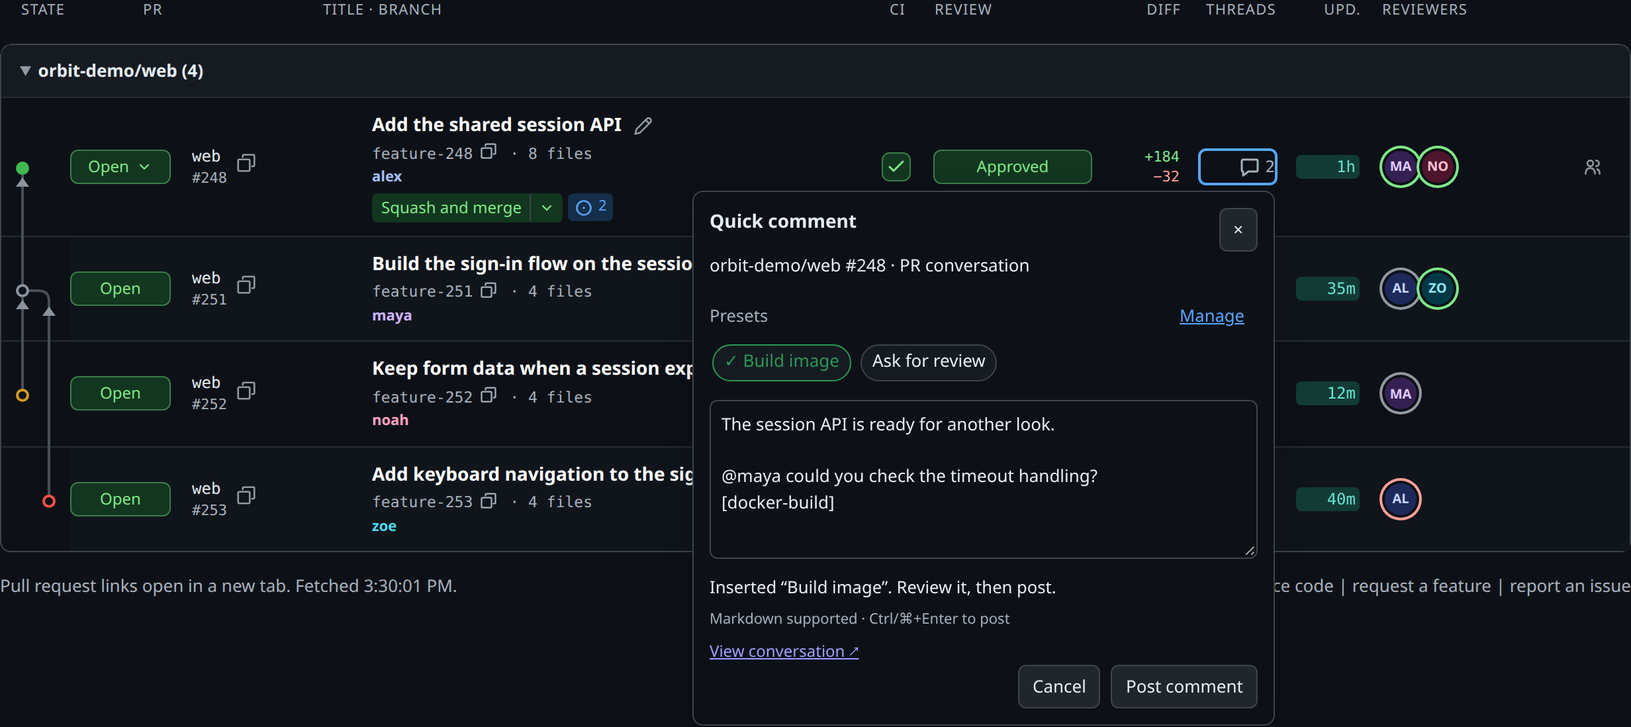
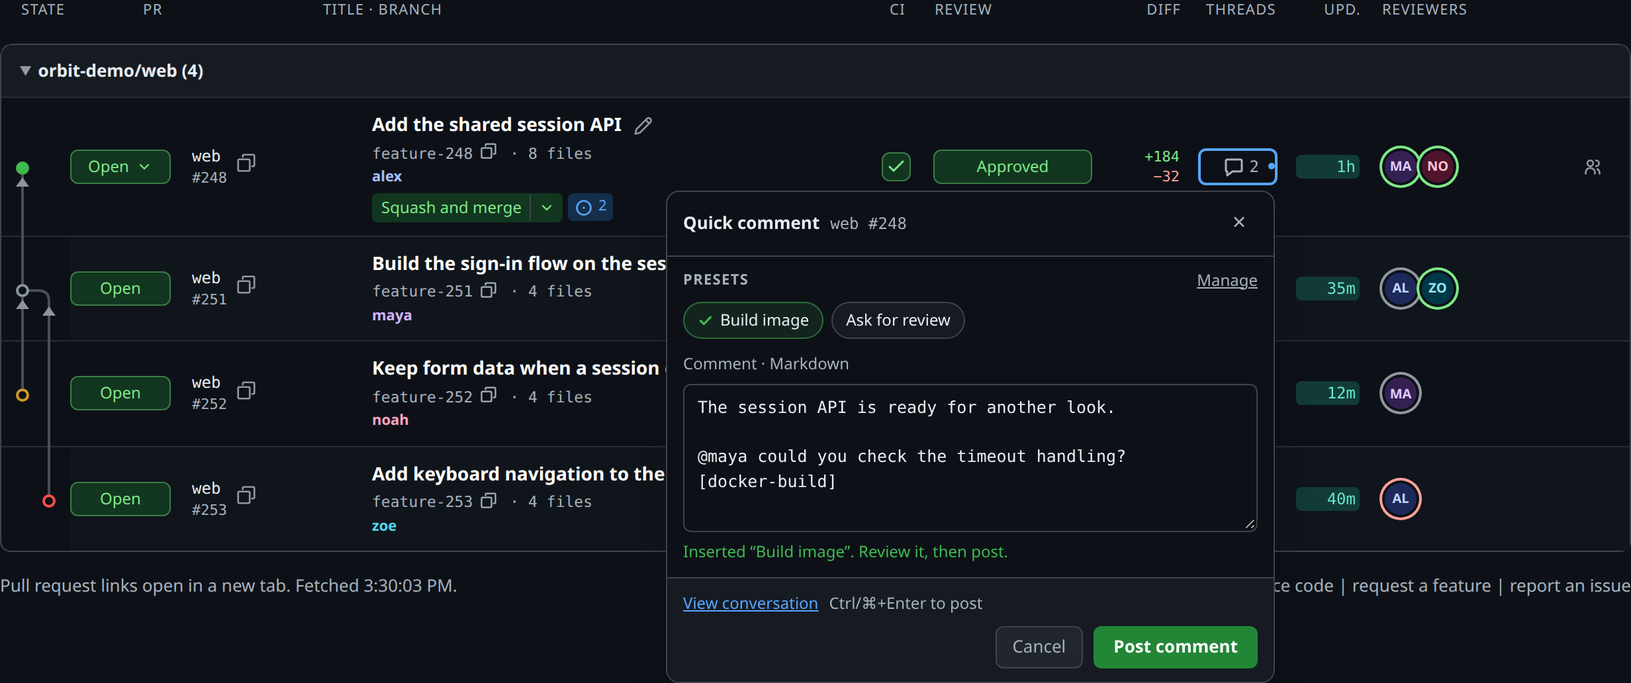
Match preset editor and composer to the design handoff

diff --git a/public/quick-presets.js b/public/quick-presets.js
@@ -10,25 +10,34 @@ async function request(input) {
   account = data.account; presets = data.presets;
 }
 export async function loadPresets() { try { await request(); } catch (e) { status=e.message; retry=loadPresets; } draw(); }
-export function openSettings(create=false) { const d=$('settings-dialog'); if (!d.open) d.showModal(); if(create) edit(); else draw(); }
+export function openSettings(create=false) { location.assign('/settings.html' + location.search + (create?'#new':'')); }
 function reset(){ editor=null; deleting=null; errors={}; retry=null; undo=null; status=''; }
 function edit(p){ reset(); editor={...p,label:p?.label??'',body:p?.body??'', scoped:p?.repos!==undefined||p?.orgs!==undefined,repos:[...(p?.repos??[])],orgs:[...(p?.orgs??[])],pending:{repos:'',orgs:''}};draw();focus('pf-label'); }
 function cancel(){const id=editor?.id, del=deleting;reset();draw();focus(del?'del-'+del:id?'edit-'+id:'new-preset');}
-async function change(input,done){if(busy)return;busy=true;retry=null;status='Saving…';draw();try{await request(input);busy=false;reset();done();}catch(e){busy=false;status=input.action==='save'?`Couldn’t save “${input.label}”. Your changes are still in the form. ${e.message}`:e.message;retry=()=>change(input,done);draw();}}
+async function change(input,done){if(busy)return;busy=true;retry=null;status='Saving…';draw();try{await request(input);busy=false;reset();done();}catch(e){busy=false;status=input.action==='save'?`Couldn’t save “${input.label}”. Your changes are still in the form. ${e.message}`:e.message;retry=input.action==='save'?()=>submit():()=>change(input,done);draw();}}
 function token(k){const v=editor.pending[k].trim();if(!v)return true;const ok=k==='repos'?repoPattern:orgPattern;
-  if(!ok.test(v)) errors[k]=k==='repos'?'Use owner/name, like nyxlabs/nyx.':'Use an org or user name, like nyxlabs.';
+  if(!ok.test(v)) errors[k]=k==='repos'?'Use owner/name, like nyxlabs/nyx.':v.includes('/')?'Enter just the org or user, like nyxlabs. For one repo, add it under Repositories.':'Use an org or user name, like nyxlabs.';
   else if(editor[k].some(x=>x.toLowerCase()===v.toLowerCase()))errors[k]=`${v} is already added.`;
   else{editor[k].push(v);editor.pending[k]='';delete errors[k];delete errors.scope;}draw();focus('pf-'+k);return !errors[k];}
-function submit(e){e.preventDefault();const {id,label,body,scoped}=editor;errors={};if(scoped){for(const k of ['repos','orgs'])token(k);}const p={id,label,body,...(scoped?{repos:editor.repos,orgs:editor.orgs}:{})};errors={...presetErrors(p,presets),...errors};if(Object.keys(errors).length){draw();focus('pf-'+(['label','body','repos','orgs','scope'].find(k=>errors[k])));return;}void change({action:'save',...p},()=>{status=`${id?'Saved':'Added'} “${label.trim()}”.`;draw();focus('edit-'+presets.find(x=>x.label===label.trim()).id);});}
+function submit(e){e?.preventDefault();const {id,label,body,scoped}=editor;errors={};if(scoped){for(const k of ['repos','orgs'])token(k);}const p={id,label,body,...(scoped?{repos:editor.repos,orgs:editor.orgs}:{})};errors={...presetErrors(p,presets),...errors};if(Object.keys(errors).length){draw();focus('pf-'+(['label','body','repos','orgs','scope'].find(k=>errors[k])));return;}void change({action:'save',...p},()=>{status=`${id?'Saved':'Added'} “${label.trim()}”.`;draw();focus('edit-'+presets.find(x=>x.label===label.trim()).id);});}
 function move(p,delta){void change({action:'move',id:p.id,delta},()=>{status=`Moved “${p.label}” to position ${presets.findIndex(x=>x.id===p.id)+1} of ${presets.length}.`;draw();focus('edit-'+p.id);});}
 function remove(p,i){void change({action:'delete',id:p.id},()=>{status=`Deleted “${p.label}”.`;undo=()=>change({action:'restore',...p,position:i},()=>{status=`Restored “${p.label}”.`;draw();focus('edit-'+p.id);});draw();focus('undo-preset');});}
-function preview(p){if(!p.scoped)return 'Shows on every pull request.';const parts=[p.repos.length&&'PRs in '+p.repos.join(' or '),p.orgs.length&&'any repo owned by '+p.orgs.join(' or ')].filter(Boolean);return parts.length?'Shows on '+parts.join(', or in ')+'.':'No repositories selected.';}
-function msg(k){return html`<small class="preset-error" id=${'msg-'+k}>${errors[k]??''}</small>`;}
+function preview(p){
+  if(!p.scoped)return 'Shows on every pull request.';
+  const orList=a=>a.length<3?a.join(' or '):a.slice(0,-1).join(', ')+', or '+a.at(-1);
+  const parts=[p.repos.length&&orList(p.repos),p.orgs.length&&'any repo owned by '+orList(p.orgs)].filter(Boolean);
+  return parts.length?'Shows on PRs in '+parts.join(', or in ')+'.':'Matches no pull requests yet. Add a repository or an org.';
+}
+function msg(k,help=''){return html`<small class=${errors[k]?'preset-error':'preset-help'} id=${'msg-'+k}>${errors[k]??help}</small>`;}
+function icon(path){return html`<svg width="14" height="14" viewBox="0 0 16 16" fill="none" stroke="currentColor" stroke-width="1.6" stroke-linecap="round" stroke-linejoin="round" aria-hidden="true"><path d=${path}></path></svg>`;}
 function tokens(k){return html`<label for=${'pf-'+k}>${k==='repos'?'Repositories':'Organizations or users'}</label><div class="preset-tokens">${editor[k].map(v=>html`<button type="button" aria-label=${'Remove '+v} @click=${()=>{editor[k]=editor[k].filter(x=>x!==v);draw();focus('pf-'+k);}}>${v} ×</button>`)}<input id=${'pf-'+k} aria-invalid=${!!errors[k]} aria-describedby=${'msg-'+k} placeholder=${k==='repos'?'owner/name':'org or user'} .value=${editor.pending[k]} @input=${e=>{editor.pending[k]=e.target.value;delete errors[k];draw();}} @keydown=${e=>{if(e.key==='Enter'){e.preventDefault();token(k);}}}><button type="button" @click=${()=>token(k)}>Add</button></div>${msg(k)}`;}
-function form(){return html`<form class="preset-form" novalidate @submit=${submit}><fieldset ?disabled=${busy}><legend>${editor.id?'Edit':'New'} preset</legend><label for="pf-label">Label</label><input id="pf-label" maxlength="40" placeholder="Build image" aria-invalid=${!!errors.label} aria-describedby="msg-label" .value=${editor.label} @input=${e=>{editor.label=e.target.value;delete errors.label;draw();}}>${msg('label')}<label for="pf-body">Comment body</label><textarea id="pf-body" maxlength="4000" placeholder="[docker-build]" aria-invalid=${!!errors.body} aria-describedby="msg-body" .value=${editor.body} @input=${e=>{editor.body=e.target.value;delete errors.body;draw();}}></textarea>${msg('body')}<fieldset><legend>Show on</legend>${[false,true].map(s=>html`<label><input type="radio" name="scope" .checked=${s===editor.scoped} @change=${()=>{editor.scoped=s;errors={};draw();if(s)focus('pf-repos');}}> ${s?'Only these repositories or organizations':'Every repository'}</label>`)}</fieldset>${editor.scoped?html`${tokens('repos')}${tokens('orgs')}`:nothing}<p id="pf-scope" tabindex="-1">${preview(editor)}</p>${msg('scope')}<div class="preset-actions"><button type="button" @click=${cancel}>Cancel</button><button class="primary" type="submit">${busy?'Saving…':'Save preset'}</button></div></fieldset></form>`;}
+function form(){return html`<form class="preset-form" novalidate @submit=${submit}><fieldset ?disabled=${busy}><legend>${editor.id?'Edit':'New'} preset</legend><div class="preset-fields"><div><label for="pf-label">Label</label><input id="pf-label" maxlength="40" placeholder="Build image" aria-invalid=${!!errors.label} aria-describedby="msg-label" .value=${editor.label} @input=${e=>{editor.label=e.target.value;delete errors.label;draw();}}>${msg('label','Shown on the chip. Up to 40 characters.')}</div><div><label for="pf-body">Comment text</label><textarea id="pf-body" maxlength="4000" placeholder="[docker-build]" aria-invalid=${!!errors.body} aria-describedby="msg-body" .value=${editor.body} @input=${e=>{editor.body=e.target.value;delete errors.body;draw();}}></textarea>${msg('body','Inserted exactly as written. Markdown works.')}</div></div><fieldset><legend>Show on</legend>${[false,true].map(s=>html`<label><input type="radio" name="scope" .checked=${s===editor.scoped} @change=${()=>{editor.scoped=s;errors={};draw();if(s)focus('pf-repos');}}> ${s?'Only these repositories or organizations':'Every repository'}</label>`)}</fieldset>${editor.scoped?html`${tokens('repos')}${tokens('orgs')}`:nothing}<p id="pf-scope" tabindex="-1">${preview(editor)}</p>${msg('scope')}<div class="preset-actions"><small class="preset-hint-key">Enter adds a repo or org · Esc cancels</small><button type="button" @click=${cancel}>Cancel</button><button class="primary" type="submit">${busy?'Saving…':editor.id?'Save changes':'Add preset'}</button></div></fieldset></form>`;}
 function row(p,i){if(editor?.id===p.id)return form();if(deleting===p.id)return html`<strong>Delete “${p.label}”?</strong><p>This removes the preset, not any posted comments.</p><button @click=${cancel}>Cancel</button> <button class="preset-error" id="confirm-preset" @click=${()=>remove(p,i)}>Delete preset</button>`;
   const tags=[...(p.repos??[]),...(p.orgs??[]).map(o=>'org '+o)];if(!tags.length)tags.push(p.repos||p.orgs?'No repositories':'All repositories');
-  return html`<div class="preset-item"><span class="preset-number">${i+1}</span><div><strong>${p.label}</strong><code>${p.body}</code><small>Shows on ${tags.slice(0,3).map(t=>html`<span class="scope-badge">${t}</span>`)} ${tags.length>3?html`<span title=${tags.slice(3).join(', ')}>+${tags.length-3} more</span>`:nothing}</small></div><div class="preset-actions"><button aria-label=${'Move '+p.label+' up'} ?disabled=${busy||!i} @click=${()=>move(p,-1)}>↑</button><button aria-label=${'Move '+p.label+' down'} ?disabled=${busy||i===presets.length-1} @click=${()=>move(p,1)}>↓</button><button id=${'edit-'+p.id} ?disabled=${busy} @click=${()=>edit(p)}>Edit</button><button id=${'del-'+p.id} ?disabled=${busy} @click=${()=>{reset();deleting=p.id;draw();focus('confirm-preset');}}>Delete</button></div></div>`;}
-function draw(){render(html`<div class="preset-heading"><div><h2>Quick comment presets</h2><p>Save comments you post often. Presets appear in this order on matching pull requests.</p></div>${presets.length?html`<button class="primary" id="new-preset" ?disabled=${busy} @click=${()=>edit()}>+ Add preset</button>`:nothing}</div><div class="preset-status" role="status">${status} ${retry?html`<button @click=${retry}>Retry</button>`:undo?html`<button id="undo-preset" @click=${undo}>Undo</button>`:nothing}</div>${editor&&!editor.id?form():nothing}${!presets.length&&!editor?html`<div class="preset-empty"><strong>No presets yet</strong><p>Save comments you post often, like [docker-build] or @claude_review.</p><button class="primary" id="new-preset" @click=${()=>edit()}>Create your first preset</button></div>`:nothing}<ol class="preset-list">${repeat(presets,p=>p.id,(p,i)=>html`<li>${row(p,i)}</li>`)}</ol><small>Saved to your local config for this GitHub account.</small>`,$('quick-comment-editor'));}
-$('settings-dialog').addEventListener('cancel',e=>{if(busy||editor||deleting){e.preventDefault();if(!busy)cancel();}});
-$('settings-dialog').addEventListener('close',reset);
+  return html`<div class="preset-item"><span class="preset-number">${i+1}</span><div><div class="preset-summary"><strong>${p.label}</strong><code>${p.body}</code></div><small>Shows on ${tags.slice(0,3).map(t=>html`<span class="scope-badge" data-repo=${t.includes('/')}>${t}</span>`)} ${tags.length>3?html`<span title=${tags.slice(3).join(', ')}>+${tags.length-3} more</span>`:nothing}</small></div><div class="preset-actions"><button aria-label=${'Move '+p.label+' up'} ?disabled=${busy||!i} @click=${()=>move(p,-1)}>${icon('m3 10 5-5 5 5')}</button><button aria-label=${'Move '+p.label+' down'} ?disabled=${busy||i===presets.length-1} @click=${()=>move(p,1)}>${icon('m3 6 5 5 5-5')}</button><button id=${'edit-'+p.id} ?disabled=${busy} @click=${()=>edit(p)}>Edit</button><button id=${'del-'+p.id} ?disabled=${busy} @click=${()=>{reset();deleting=p.id;draw();focus('confirm-preset');}}>Delete</button></div></div>`;}
+function draw(){if (!$('quick-comment-editor')) return; render(html`<div class="preset-heading"><div><h1>Quick comment presets</h1><p>One click fills the Quick comment draft with text you post often. Nothing is posted until you press Post comment. Presets show in this order, and only on PRs inside their scope.</p></div>${presets.length?html`<button class="primary" id="new-preset" ?disabled=${busy} @click=${()=>edit()}>${icon('M8 2v12M2 8h12')} Add preset</button>`:nothing}</div><div class="preset-status" role="status">${status || (presets.length ? `${presets.length} preset${presets.length===1?'':'s'}. Changes save automatically.`:'')} ${retry?html`<button @click=${retry}>Retry</button>`:undo?html`<button id="undo-preset" @click=${undo}>Undo</button>`:nothing}</div>${editor&&!editor.id?form():nothing}${!presets.length&&!editor?html`<div class="preset-empty"><strong>No presets yet</strong><p>Save comments you post often, like [docker-build] or @claude_review.</p><button class="primary" id="new-preset" @click=${()=>edit()}>Create your first preset</button></div>`:nothing}<ol class="preset-list">${repeat(presets,p=>p.id,(p,i)=>html`<li>${row(p,i)}</li>`)}</ol>`,$('quick-comment-editor'));}
+if ($('quick-comment-editor')) {
+  $('dashboard-link').href = '/' + location.search;
+  document.addEventListener('keydown', e=>{if(e.key==='Escape'&&!busy&&(editor||deleting)){e.preventDefault();cancel();}});
+  void loadPresets().then(()=>{if(location.hash==='#new')edit();});
+}

diff --git a/public/presets.css b/public/presets.css
@@ -1,1 +1,7 @@
-#settings-dialog{color:var(--color-text);background:var(--color-page);border:1px solid var(--color-border);border-radius:10px;width:min(780px,calc(100% - 24px));max-height:90dvh;padding:0;overscroll-behavior:contain}#settings-dialog::backdrop{background:#0008;overflow:hidden;overscroll-behavior:contain}.preset-top,.preset-heading,.preset-caption,.preset-actions{display:flex;align-items:center;justify-content:space-between;gap:8px}.preset-top{padding:12px 18px;border-bottom:1px solid var(--color-border);background:var(--color-surface)}#quick-comment-editor{padding:18px}#quick-comment-editor h2{margin:0;font-size:1.05rem}#quick-comment-editor p{margin:4px 0 12px;color:var(--color-muted)}.preset-heading button,.preset-actions button{white-space:nowrap}.preset-list{list-style:none;padding:0;margin:10px 0;border:1px solid var(--color-border);border-radius:8px;overflow:hidden}.preset-list:empty{display:none}.preset-list li{padding:12px}.preset-list li+li{border-top:1px solid var(--color-divider)}.preset-item{display:grid;grid-template-columns:1.5rem minmax(0,1fr) auto;align-items:start;gap:8px}.preset-item code{display:block;white-space:pre-wrap;overflow-wrap:anywhere;color:var(--color-muted)}.preset-item small,.preset-number{color:var(--color-muted)}.preset-actions{justify-content:flex-end;flex-wrap:wrap}.scope-badge,.preset-tokens button,.preset-chips button{display:inline-flex;border:1px solid var(--color-border);border-radius:999px;padding:2px 8px;margin:2px;background:var(--color-surface)}.preset-form{padding:12px;border:1px solid var(--color-border);border-radius:8px;background:var(--color-surface)}.preset-form>fieldset{border:0;min-width:0;padding:0}.preset-form label,.preset-form textarea,.preset-form input:not([type=radio]){display:block}.preset-form label{margin-top:8px;font-weight:600}.preset-form input:not([type=radio]),.preset-form textarea,.preset-filter{box-sizing:border-box;width:100%;padding:7px;background:var(--color-page);color:var(--color-text);border:1px solid var(--color-border);border-radius:6px;font:inherit}.preset-form textarea{min-height:70px}.preset-form fieldset fieldset{margin:8px 0;border:1px solid var(--color-divider)}.preset-tokens,.preset-chips{display:flex;flex-wrap:wrap;align-items:center;gap:3px}.preset-tokens input{flex:1;min-width:8em}.preset-error,[aria-invalid=true]{color:var(--color-danger,#cf4545)}.preset-note,.preset-status{min-height:1.3em;font-size:.8rem}.preset-empty,.preset-hint{padding:10px;border:1px dashed var(--color-border);border-radius:8px}.preset-empty{text-align:center;padding:28px}.preset-picker{margin:12px 0}.preset-caption{color:var(--color-muted);font-size:.8rem;margin-bottom:4px}.preset-caption button,.preset-hint button{background:transparent;border:0;color:var(--color-accent);text-decoration:underline}.preset-chips button{min-height:28px}.preset-chips .in-draft{color:var(--color-success,#299854);border-color:currentColor}.preset-close{float:right}.preset-overflow{padding:8px;margin-top:6px;border:1px solid var(--color-border);border-radius:6px;max-height:12rem;overflow:auto}.preset-overflow button{display:block;width:100%;text-align:left}.comment-count[aria-expanded=true]{outline:2px solid var(--color-accent)}.comment-popover{max-height:90dvh;overflow:auto;width:min(440px,calc(100vw - 16px))}@media(max-width:37.5em){.preset-item{grid-template-columns:1.5rem minmax(0,1fr)}.preset-item .preset-actions{grid-column:2;justify-content:start}.pr-row button.comment-count{min-height:32px}.pr-row button.comment-count:after{content:'Comment'}.comment-popover{width:calc(100vw - 16px)}.preset-heading{align-items:start}.preset-heading p{font-size:.85rem}}
+.comment-popover:popover-open{padding:0;box-sizing:border-box;width:min(460px,calc(100vw - 16px));border-radius:10px;background:var(--color-page)}
+.qc-header,.qc-footer{display:flex;align-items:center;gap:8px;padding:10px 12px}
+.qc-header{border-bottom:1px solid var(--color-border)}.qc-header h2{margin:0;font-size:13px}.qc-header span{font:12px ui-monospace,monospace;color:var(--color-muted);overflow:hidden;white-space:nowrap;text-overflow:ellipsis}.qc-header .preset-close{margin-left:auto;background:transparent;color:var(--color-muted);border:0;width:28px;height:28px;padding:0;font-size:18px}
+.comment-popover .preset-picker{padding:10px 12px 0;margin:0}.comment-popover .preset-caption{font-size:11px;text-transform:uppercase;font-weight:600;letter-spacing:.06em;margin-bottom:8px}.comment-popover .preset-caption button{min-height:0;padding:0;color:var(--color-muted);font-size:12px}.comment-popover .preset-chips{gap:6px}.comment-popover .preset-chips button{align-items:center;justify-content:center;margin:0;padding:0 10px;font-size:12px;font-weight:500}.comment-popover .preset-more{border-style:dashed;background:transparent}
+.qc-compose{padding:10px 12px;color:var(--color-muted);font-size:12px}.qc-compose textarea.form-input{margin:6px 0;min-height:96px;padding:8px 10px;font:12.5px/1.5 ui-monospace,monospace}.qc-footer{border-top:1px solid var(--color-border);background:var(--color-surface);flex-wrap:wrap;font-size:12px;color:var(--color-muted)}.qc-footer .form-actions{margin-left:auto}.qc-footer button{min-height:32px;font-size:13px}.qc-footer button[type=submit]{background:#238636;color:white;border-color:transparent}.qc-footer button[type=submit]:disabled{opacity:.55}
+.comment-popover .preset-chips button:not(.preset-more){background:var(--color-surface);color:var(--color-text);gap:5px;font-weight:500;white-space:nowrap}.comment-popover .preset-chips button.in-draft{background:light-dark(#dafbe1,rgba(63,185,80,.12));border-color:light-dark(#398747,rgba(63,185,80,.5))}.comment-popover .preset-chips .in-draft svg,.preset-note[data-inserted=true]{color:light-dark(#116329,#3fb950)}.comment-popover .preset-caption button{font-weight:400;letter-spacing:normal;text-transform:none;line-height:16px}.comment-popover .preset-caption{line-height:16px}.comment-popover .qc-footer a:any-link{color:var(--color-accent)}.qc-compose .preset-note{min-height:18px;font-size:12px;line-height:18px}.qc-footer .form-actions{flex-basis:100%;justify-content:flex-end}.qc-footer button{padding:0 12px;font-weight:500}.qc-footer button[type=submit]{padding:0 14px;font-weight:600}
+.settings-page .preset-top strong{font-size:20px}.settings-page .preset-top span,.preset-help,.preset-hint-key{color:var(--color-muted)}.settings-page .preset-top span{margin-inline-start:8px;font-size:13px}.settings-page .button-link,.settings-page button{display:inline-flex;align-items:center;justify-content:center;gap:6px}.preset-summary{display:flex;align-items:center;flex-wrap:wrap;gap:8px}.preset-summary code{background:var(--color-surface);border:1px solid var(--color-border);border-radius:5px;padding:1px 6px}.scope-badge[data-repo=true]{font-family:ui-monospace,monospace}.settings-page button[id^=del-],.settings-page #confirm-preset{color:light-dark(#b62324,#ff7b72);border-color:light-dark(#d18282,#884645)}.settings-page button:disabled{opacity:.45}.settings-page button.primary{background:#238636;color:white;border:1px solid #287e35}.preset-fields{display:grid;grid-template-columns:minmax(0,1fr) minmax(0,2fr);gap:16px}.preset-fields small{display:block;margin-top:4px}.preset-hint-key{margin-right:auto}.settings-page #pf-scope{border:1px solid var(--color-border);border-radius:6px;padding:10px;margin:12px 0;background:var(--color-page)}@media(max-width:37.5em){.preset-fields{grid-template-columns:1fr}}body.settings-page{box-sizing:border-box;width:100%;max-width:1280px;margin:auto;padding:20px}.settings-frame{width:100%;box-sizing:border-box;padding:24px 28px 32px;border:1px solid var(--color-border);border-radius:12px;background:var(--color-page)}.settings-frame .preset-top{border:0}.settings-page .preset-heading{align-items:flex-end;flex-wrap:wrap}.settings-page .preset-heading>div{max-width:640px}.settings-page .preset-heading p{font-size:13px;line-height:1.5;margin:4px 0 0}.settings-page #new-preset:not(:only-child){color:var(--color-text);background:var(--color-surface);border:1px solid var(--color-border)}.settings-page .preset-status{margin:14px 0;color:var(--color-muted)}@media(max-width:37.5em){.settings-frame{padding:16px 12px 24px}}.settings-page .preset-top{background:transparent;padding:0;margin:0}.settings-page #quick-comment-editor{padding:20px 0 0;margin:0}.settings-frame .preset-heading p{margin:4px 0 0!important}.settings-frame .preset-list{margin:0}.settings-frame .preset-item{align-items:center;gap:12px;grid-template-columns:24px minmax(0,1fr) auto}.settings-frame .preset-number{text-align:right}.settings-frame .preset-list li{padding:11px 16px}.settings-frame .preset-summary code,.settings-frame .scope-badge{font-size:12px;line-height:16px}.settings-frame .scope-badge{padding-block:0}.settings-frame .preset-summary code{padding-block:0}.settings-frame .preset-actions button{min-height:32px;font-size:13px}.settings-frame button[aria-label^=Move]{width:32px;padding:0} @media(max-width:37.5em){.settings-frame .preset-item{grid-template-columns:24px minmax(0,1fr)}}.settings-page .preset-heading h1{margin:0;font-size:16px}@media(max-width:37.5em){body.settings-page{padding:16px 12px 24px}}.preset-top,.preset-heading,.preset-caption,.preset-actions{display:flex;align-items:center;justify-content:space-between;gap:8px}.preset-top{padding:12px 18px;border-bottom:1px solid var(--color-border);background:var(--color-surface)}#quick-comment-editor{padding:18px}#quick-comment-editor h2{margin:0;font-size:1.05rem}#quick-comment-editor p{margin:4px 0 12px;color:var(--color-muted)}.preset-heading button,.preset-actions button{white-space:nowrap}.preset-list{list-style:none;padding:0;margin:10px 0;border:1px solid var(--color-border);border-radius:8px;overflow:hidden}.preset-list:empty{display:none}.preset-list li{padding:12px}.preset-list li+li{border-top:1px solid var(--color-divider)}.preset-item{display:grid;grid-template-columns:1.5rem minmax(0,1fr) auto;align-items:start;gap:8px}.preset-item code{display:block;white-space:pre-wrap;overflow-wrap:anywhere;color:var(--color-muted)}.preset-item small,.preset-number{color:var(--color-muted)}.preset-actions{justify-content:flex-end;flex-wrap:wrap}.scope-badge,.preset-tokens button,.preset-chips button{display:inline-flex;border:1px solid var(--color-border);border-radius:999px;padding:2px 8px;margin:2px;background:var(--color-surface)}.preset-form{padding:12px;border:1px solid var(--color-border);border-radius:8px;background:var(--color-surface)}.preset-form>fieldset{border:0;min-width:0;padding:0}.preset-form label,.preset-form textarea,.preset-form input:not([type=radio]){display:block}.preset-form label{margin-top:8px;font-weight:600}.preset-form input:not([type=radio]),.preset-form textarea,.preset-filter{box-sizing:border-box;width:100%;padding:7px;background:var(--color-page);color:var(--color-text);border:1px solid var(--color-border);border-radius:6px;font:inherit}.preset-form textarea{min-height:70px}.preset-form fieldset fieldset{margin:8px 0;border:1px solid var(--color-divider)}.preset-tokens,.preset-chips{display:flex;flex-wrap:wrap;align-items:center;gap:3px}.preset-tokens input{flex:1;min-width:8em}.preset-error,[aria-invalid=true]{color:var(--color-danger,#cf4545)}.preset-note,.preset-status{min-height:1.3em;font-size:.8rem}.preset-empty,.preset-hint{padding:10px;border:1px dashed var(--color-border);border-radius:8px}.preset-empty{text-align:center;padding:28px}.preset-picker{margin:12px 0}.preset-caption{color:var(--color-muted);font-size:.8rem;margin-bottom:4px}.preset-caption button,.preset-hint button{background:transparent;border:0;color:var(--color-accent);text-decoration:underline}.preset-chips button{min-height:28px}.preset-chips .in-draft{color:var(--color-success,#299854);border-color:currentColor}.preset-close{float:right}.preset-overflow{padding:8px;margin-top:6px;border:1px solid var(--color-border);border-radius:6px;max-height:12rem;overflow:auto}.preset-overflow button{display:block;width:100%;text-align:left}.comment-count[aria-expanded=true]{outline:2px solid var(--color-accent)}.comment-popover{max-height:90dvh;overflow:auto;width:min(440px,calc(100vw - 16px))}@media(max-width:37.5em){.preset-item{grid-template-columns:1.5rem minmax(0,1fr)}.preset-item .preset-actions{grid-column:2;justify-content:start}.pr-row button.comment-count{min-height:32px}.pr-row button.comment-count:after{content:'Comment'}.comment-popover{width:calc(100vw - 16px)}.preset-heading{align-items:start}.preset-heading p{font-size:.85rem}}

diff --git a/public/comments.js b/public/comments.js
@@ -33,18 +33,18 @@ export function createCommentControls({ changes, submit, onClose }) {
       if(event.key==='Escape' && more){event.preventDefault();event.stopPropagation();toggle();return;}
       if ((event.ctrlKey || event.metaKey) && event.key === 'Enter') { event.preventDefault(); event.currentTarget.requestSubmit(); }
     }}>
-      <button type="button" class="preset-close" aria-label="Close quick comment" @click=${()=>popover.close()}>×</button><h2>Quick comment</h2>
-      <p class="form-description">${pr.repo} #${pr.number} · PR conversation</p>
-      ${document.getElementById('settings').hidden?nothing:html`<div class="preset-picker" role="group" aria-label="Presets"><div class="preset-caption">Presets <button type="button" @click=${()=>manage()}>Manage</button></div>${shown.length?html`<div class="preset-chips">${repeat(shown,p=>p.id,p=>html`<button type="button" ?disabled=${draft.saving} class=${draft.value.includes(p.body)?'in-draft':''} aria-label=${p.label+(draft.value.includes(p.body)?', already in draft':', inserts '+p.body)} title=${'Inserts: '+p.body} @click=${()=>pick(p)}>${draft.value.includes(p.body)?'✓ ':''}${p.label}</button>`)}${rest.length?html`<button class="preset-more" type="button" aria-expanded=${more} @click=${toggle}>More (${rest.length}) ▾</button>`:nothing}</div>`:html`<p class="preset-hint">${presets.length?`None of your ${presets.length} presets apply to ${pr.repo}.`:'No presets yet. Save comments you post often, like [docker-build], and they appear here.'} <button type="button" @click=${()=>manage(!presets.length)}>${presets.length?'Edit scopes':'Create a preset'}</button></p>`}${more&&rest.length?html`<div class="preset-overflow"><label>All presets for ${pr.repo}<input class="preset-filter" placeholder="Filter presets…" .value=${filter} @input=${e=>{filter=e.target.value;content();}} @keydown=${e=>{if(e.key==='Enter'){e.preventDefault();if(results[0])pick(results[0]);}}}></label>${repeat(results,p=>p.id,p=>html`<button type="button" @click=${()=>pick(p)}>${p.label} · <code>${p.body}</code></button>`)}${results.length?nothing:`No presets match “${filter}”.`}</div>`:nothing}</div>`}
-      ${formField({ label: 'Comment', value: draft.value, multiline: true, maxLength: 4000, disabled: draft.saving,
+      <div class="qc-header"><h2>Quick comment</h2><span title=${pr.repo}>${pr.repo.split('/').at(-1)} #${pr.number}</span><button type="button" class="preset-close" aria-label="Close quick comment" @click=${()=>popover.close()}>×</button></div>
+      ${document.getElementById('settings').hidden?nothing:html`<div class="preset-picker" role="group" aria-label="Presets"><div class="preset-caption">Presets <button type="button" @click=${()=>manage()}>Manage</button></div>${shown.length?html`<div class="preset-chips">${repeat(shown,p=>p.id,p=>html`<button type="button" ?disabled=${draft.saving} class=${draft.value.includes(p.body)?'in-draft':''} aria-label=${p.label+(draft.value.includes(p.body)?', already in draft':', inserts '+p.body)} title=${'Inserts: '+p.body} @click=${()=>pick(p)}>${draft.value.includes(p.body)?html`<svg width="12" height="12" viewBox="0 0 16 16" aria-hidden="true" fill="none" stroke="currentColor" stroke-width="2.2" stroke-linecap="round" stroke-linejoin="round"><path d="M3 8.5l3.2 3.2L13 4.8"></path></svg>`:nothing}${p.label}</button>`)}${rest.length?html`<button class="preset-more" type="button" aria-expanded=${more} @click=${toggle}>More (${rest.length}) ▾</button>`:nothing}</div>`:html`<p class="preset-hint">${presets.length?`None of your ${presets.length} presets apply to ${pr.repo}.`:'No presets yet. Save comments you post often, like [docker-build], and they appear here.'} <button type="button" @click=${()=>manage(!presets.length)}>${presets.length?'Edit scopes':'Create a preset'}</button></p>`}${more&&rest.length?html`<div class="preset-overflow"><label>All presets for ${pr.repo}<input class="preset-filter" placeholder="Filter by label or text" .value=${filter} @input=${e=>{filter=e.target.value;content();}} @keydown=${e=>{if(e.key==='Enter'){e.preventDefault();if(results[0])pick(results[0]);}}}></label>${repeat(results,p=>p.id,p=>html`<button type="button" @click=${()=>pick(p)}>${p.label} · <code>${p.body}</code></button>`)}${results.length?nothing:`No presets match “${filter}”.`}</div>`:nothing}</div>`}
+      <div class="qc-compose"><label>Comment · Markdown
+      ${formField({ label: 'Comment', rows:5, placeholder:'Leave a comment', value: draft.value, multiline: true, maxLength: 4000, disabled: draft.saving,
         onInput(value) { draft.value = value; note=''; content(); } })}
-      <div class="preset-note" role="status">${note}</div><p class="comment-help">Markdown supported · Ctrl/⌘+Enter to post</p>
-      ${formError(draft.error)}
-      <a class="comment-conversation" href=${githubUrl(pr.url)} target="_blank" rel="noopener noreferrer">View conversation ↗</a>
+      </label><div class="preset-note" data-inserted=${note.startsWith('Inserted')} role="status">${note}</div>${formError(draft.error)}</div>
+      <div class="qc-footer"><a href=${githubUrl(pr.url)} target="_blank" rel="noopener noreferrer">View conversation</a><span>Ctrl/⌘+Enter to post</span>
       ${formActions({ saving: draft.saving, disabled: !draft.value.trim(), submitLabel: 'Post comment', pendingLabel: 'Posting…', onCancel() {
         if (!draft.saving) changes.delete(pr.id);
         popover.close();
       } })}
+      </div>
     </form>`, popover.panel);
   }
   return {

diff --git a/public/index.html b/public/index.html
@@ -18,11 +18,7 @@
 </head>
 <body>
   <div id="sticky-top">
-    <header><div><h1>gh-pull</h1><p class="subtitle">much better github pr dashboard</p></div><div class="account-controls"><button type="button" id="settings" aria-haspopup="dialog" hidden>Settings</button><a id="install" class="button-link" hidden target="_blank" rel="noopener noreferrer">Manage repository access</a><button id="logout" type="button" hidden>Sign out</button><button id="refresh" type="button" data-tooltip="Refresh" aria-label="Refresh" hidden><svg viewBox="0 0 36 36" fill="none" stroke="currentColor" stroke-width="1.5" stroke-linecap="round" stroke-linejoin="round" aria-hidden="true"><path d="M6.7 11.5A13 13 0 0 1 29.3 11.5M29.3 6.5v5h-5M29.3 24.5A13 13 0 0 1 6.7 24.5M6.7 29.5v-5h5"/></svg><span id="refresh-countdown" aria-hidden="true">60</span></button></div></header>
-    <dialog id="settings-dialog" aria-labelledby="settings-heading">
-      <div class="preset-top"><strong id="settings-heading">gh-pull　/　Settings</strong><form method="dialog"><button type="submit">← Back to dashboard</button></form></div>
-      <section id="quick-comment-editor" aria-label="Quick comment presets"></section>
-    </dialog>
+    <header><div><h1>gh-pull</h1><p class="subtitle">much better github pr dashboard</p></div><div class="account-controls"><a class="button-link" id="settings" href="/settings.html" hidden>Settings</a><a id="install" class="button-link" hidden target="_blank" rel="noopener noreferrer">Manage repository access</a><button id="logout" type="button" hidden>Sign out</button><button id="refresh" type="button" data-tooltip="Refresh" aria-label="Refresh" hidden><svg viewBox="0 0 36 36" fill="none" stroke="currentColor" stroke-width="1.5" stroke-linecap="round" stroke-linejoin="round" aria-hidden="true"><path d="M6.7 11.5A13 13 0 0 1 29.3 11.5M29.3 6.5v5h-5M29.3 24.5A13 13 0 0 1 6.7 24.5M6.7 29.5v-5h5"/></svg><span id="refresh-countdown" aria-hidden="true">60</span></button></div></header>
     <p id="auth-notice" role="alert" hidden></p>
     <p id="update-notice" role="status" hidden><a id="update-release" target="_blank" rel="noopener noreferrer"></a> is available. To update, run <button id="copy-update-command" type="button" data-tooltip="Copy update command" aria-label="Copy update command"><code id="update-command">gh pull stop &amp;&amp; gh extension upgrade pull &amp;&amp; gh pull</code> <span id="update-copy-symbol" aria-hidden="true"></span></button> in your terminal. <span id="update-copy-feedback"></span></p>
     <section id="signin" hidden aria-label="Sign in">

diff --git a/public/controls.js b/public/controls.js
@@ -17,9 +17,9 @@ export function iconButton({ icon, copy, ...options }) {
     feedback: copy ? copyFeedback(copy.text, copy.success, options.title) : nothing });
 }
 
-export function formField({ label, value, onInput, disabled = false, multiline = false, maxLength, required = true }) {
+export function formField({ label, value, onInput, disabled = false, multiline = false, rows, placeholder, maxLength, required = true }) {
   return multiline
-    ? html`<textarea class="form-input" aria-label=${label} .value=${live(value)} ?required=${required}
+    ? html`<textarea class="form-input" rows=${rows ?? nothing} placeholder=${placeholder ?? nothing} aria-label=${label} .value=${live(value)} ?required=${required}
         maxlength=${maxLength ?? nothing} ?disabled=${disabled} @input=${event => onInput(event.target.value)}></textarea>`
     : html`<input class="form-input" type="text" aria-label=${label} .value=${live(value)} ?required=${required}
         maxlength=${maxLength ?? nothing} ?disabled=${disabled} @input=${event => onInput(event.target.value)}>`;

diff --git a/public/app.js b/public/app.js
@@ -1,4 +1,4 @@
-import { loadPresets, openSettings } from './quick-presets.js';
+import { loadPresets } from './quick-presets.js';
 import { createCommentControls } from './comments.js';
 import { installTooltips } from './tooltip.js';
 import { createReviewerManager } from './reviewer-manager.js';
@@ -20,11 +20,11 @@ import { queryFromParams, queryPresets, setQueryPreset, normalizeQuery, queryErr
 
 const $ = id => document.getElementById(id);
 installTooltips();
-$('settings').addEventListener('click', () => openSettings());
+window.addEventListener('pageshow', e => { if (e.persisted && authMode === 'local') void loadPresets(); });
 observeStickyTop($('sticky-top'));
 function showDashboard(visible) {
   $('settings').hidden = !visible || authMode !== 'local';
-  if (!visible && $('settings-dialog').open) $('settings-dialog').close();
+  $('settings').href = '/settings.html' + location.search;
   $('dashboard').hidden = !visible;
   $('dashboard-controls').hidden = !visible;
   $('summary').hidden = !visible;

diff --git a/public/settings.html b/public/settings.html
@@ -1,0 +1,5 @@
+<!doctype html>
+<html lang="en"><head>
+<meta charset="utf-8"><meta name="viewport" content="width=device-width,initial-scale=1"><meta name="color-scheme" content="light dark">
+<title>gh-pull · Settings · Quick comment presets</title><link rel="icon" href="/favicon.svg"><link rel="stylesheet" href="/theme.css"><link rel="stylesheet" href="/style.css"><link rel="stylesheet" href="/presets.css"><script type="module" src="/quick-presets.js"></script>
+</head><body class="settings-page"><div class="settings-frame"><header class="preset-top"><div><strong>gh-pull</strong> <span>Settings</span></div><a class="button-link" id="dashboard-link" href="/"><svg width="14" height="14" viewBox="0 0 16 16" fill="none" stroke="currentColor" stroke-width="1.6" aria-hidden="true"><path d="m10 3-5 5 5 5"/></svg> Back to dashboard</a></header><main id="quick-comment-editor" aria-label="Quick comment presets"></main></div></body></html>

diff --git a/public-assets.js b/public-assets.js
@@ -1,5 +1,6 @@
 export const publicAssets = [
   ['index.html', 'text/html'],
+  ['settings.html', 'text/html'],
   ['saved-views.js', 'text/javascript'],
   ['app.js', 'text/javascript'],
   ['row.js', 'text/javascript'],
